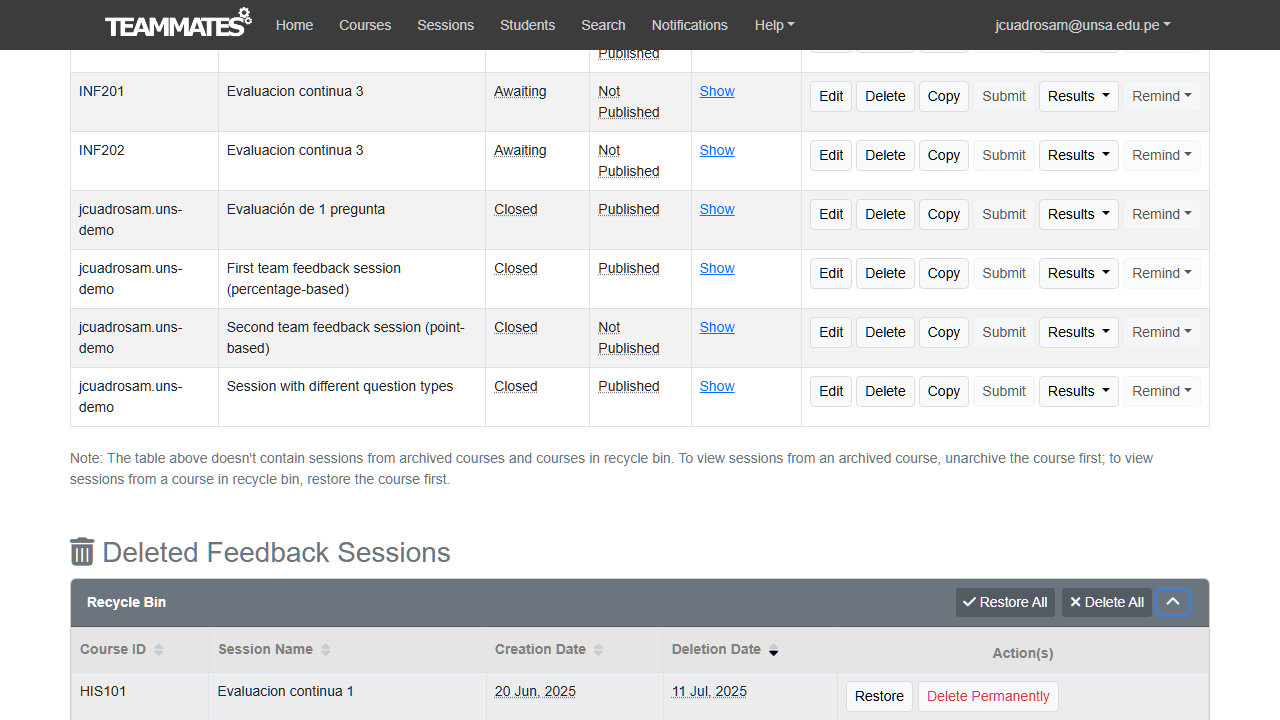
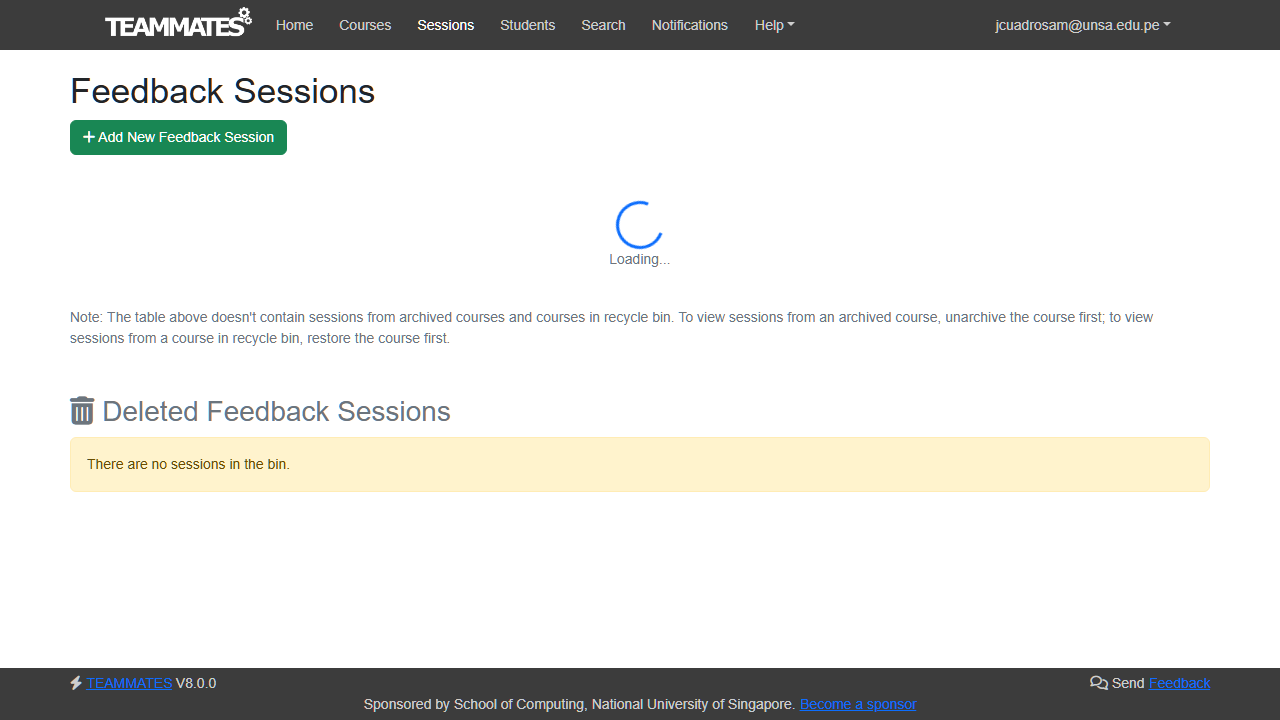
Agregando rf08.5

diff --git a/tests/gestion_retroalimentacion/rf08.5.spec.ts b/tests/gestion_retroalimentacion/rf08.5.spec.ts
@@ -1,0 +1,189 @@
+import { test, expect } from '@playwright/test';
+import { isAuthValid } from '../../scripts/checkAuth.js';
+import { CargaCompleta } from '../../utils/Carga_completa.ts';
+import { Guardar_imagen } from '../../utils/Guardar_imagen.ts';
+import { esperaTiempo } from '../../utils/esperaTiempo.ts';
+import path from 'path';
+
+const storagePath = path.resolve('auth/storageState.json');
+const urlBase = 'https://teammates-orugas.appspot.com/';
+const nombre = "rf08.5";
+const carpetaBase = path.join("capturas","gestion_retroalimentacion",nombre);
+
+
+// validar el login inicial
+test.beforeAll(() => {
+  	if (! isAuthValid(storagePath)) {
+    	throw new Error(
+      	'❌ La sesion de Google ha expirado o no existe. ' +
+      	'Ejecuta `node scripts/saveAuth.js` para regenerar auth/storageState.json'
+    	);
+  	}
+});
+
+// configurar contexto
+test.use({
+  	storageState: storagePath
+});
+
+test.only('rf08.5-01 (Eliminación exitosa de una sesión no publicada con confirmación) [Casos de Uso]', async ({ page }) => {
+    const contador = { valor: 0 };
+    const casosPrueba = "rf08.5-01";
+
+    // 1. Cargar la pagina inicial
+    await page.goto(urlBase + 'web/instructor/home'); //url inicial
+    await CargaCompleta(page); // Esperar carga 
+    await Guardar_imagen(page, carpetaBase, contador, casosPrueba); 
+    await expect(page.locator('a', { hasText: 'Sessions' })).toBeVisible(); 
+
+    // 2. Carga sessions
+    await page.click('text=Sessions'); //hacer click    
+    await esperaTiempo(1500);
+    await Guardar_imagen(page, carpetaBase, contador, casosPrueba); 
+    await page.click('.btn.btn-light.btn-sm.btn-soft-delete-0');
+
+    // 3. Resultados
+    await esperaTiempo(1500);
+    await Guardar_imagen(page, carpetaBase, contador, casosPrueba); 
+    await page.getByRole('button', { name: 'Yes' }).click();     
+
+    // 4. Respuesta 
+    await esperaTiempo(1500);
+    const mensaje = await page.locator('div.toast-body').innerText();
+    await Guardar_imagen(page, carpetaBase, contador, casosPrueba);
+    expect(mensaje).toContain('has been deleted');         
+});
+test.only('rf08.5-02 (Cancelación de eliminación por el usuario) [Casos de Uso]', async ({ page }) => {
+    const contador = { valor: 0 };
+    const casosPrueba = "rf08.5-02";
+
+    // 1. Cargar la pagina inicial
+    await page.goto(urlBase + 'web/instructor/home'); //url inicial
+    await CargaCompleta(page); // Esperar carga 
+    await Guardar_imagen(page, carpetaBase, contador, casosPrueba); 
+    await expect(page.locator('a', { hasText: 'Sessions' })).toBeVisible(); 
+
+    // 2. Carga sessions
+    await page.click('text=Sessions'); //hacer click    
+    await esperaTiempo(1500);
+    await Guardar_imagen(page, carpetaBase, contador, casosPrueba); 
+    await page.click('.btn.btn-light.btn-sm.btn-soft-delete-0');
+
+    // 3. Resultados
+    await esperaTiempo(1500);
+    await Guardar_imagen(page, carpetaBase, contador, casosPrueba); 
+    await page.getByRole('button', { name: 'No, cancel the operation' }).click(); 
+    
+    // 4. Respuesta 
+    await esperaTiempo(1500);
+    await Guardar_imagen(page, carpetaBase, contador, casosPrueba); 
+});
+test.only('rf08.5-03 (Eliminación lógica vs física según configuración) [Casos de Uso]', async ({ page }) => {
+    const contador = { valor: 0 };
+    const casosPrueba = "rf08.5-03";
+
+    // 1. Cargar la pagina inicial
+    await page.goto(urlBase + 'web/instructor/home'); //url inicial
+    await CargaCompleta(page); // Esperar carga 
+    await Guardar_imagen(page, carpetaBase, contador, casosPrueba); 
+    await expect(page.locator('a', { hasText: 'Sessions' })).toBeVisible(); 
+
+    // 2. Carga sessions
+    await page.click('text=Sessions'); //hacer click
+    const expandBtn = page.locator('#deleted-sessions-heading button.chevron');
+    await expect(expandBtn).toBeVisible();
+    await expandBtn.click();
+
+    // 3. Resultados
+    await esperaTiempo(1500);
+    await Guardar_imagen(page, carpetaBase, contador, casosPrueba);   
+    await expect(page.locator('#btn-delete-0')).toBeVisible();
+    await page.click('#btn-delete-0');
+
+    // 4. alerta
+    await esperaTiempo(1500);
+    await Guardar_imagen(page, carpetaBase, contador, casosPrueba); 
+    await page.getByRole('button', { name: 'Yes' }).click();     
+
+    // 5. Respuesta     
+    await esperaTiempo(1500);
+    await Guardar_imagen(page, carpetaBase, contador, casosPrueba);    
+});
+test.only('rf08.5-04 (Eliminación de sesión con estudiantes ya habiendo respondido) [Casos de Uso]', async ({ page }) => {
+    const contador = { valor: 0 };
+    const casosPrueba = "rf08.5-04";
+
+    // 1. Cargar la pagina inicial
+    await page.goto(urlBase + 'web/instructor/home'); //url inicial
+    await CargaCompleta(page); // Esperar carga 
+    await Guardar_imagen(page, carpetaBase, contador, casosPrueba); 
+    await expect(page.locator('a', { hasText: 'Sessions' })).toBeVisible(); 
+
+    // 2. Carga sessions
+    await page.click('text=Sessions'); //hacer click
+    const expandBtn = page.locator('#deleted-sessions-heading button.chevron');
+    await expect(expandBtn).toBeVisible();
+    await expandBtn.click();
+
+    // 3. Resultados
+    await esperaTiempo(1500);
+    await Guardar_imagen(page, carpetaBase, contador, casosPrueba); 
+    const fila = page.locator('tr', {
+        has: page.locator('a.show-response-rate-0')
+    });  
+    await fila.locator('a.show-response-rate-0').click();
+    await esperaTiempo(1500);
+    await Guardar_imagen(page, carpetaBase, contador, casosPrueba); 
+    await expect(page.locator('#btn-delete-0')).toBeVisible();
+    await page.click('#btn-delete-0');
+
+    // 4. alerta
+    await esperaTiempo(1500);
+    await Guardar_imagen(page, carpetaBase, contador, casosPrueba); 
+    await page.getByRole('button', { name: 'Yes' }).click();     
+
+    // 5. Respuesta     
+    await esperaTiempo(1500);
+    await Guardar_imagen(page, carpetaBase, contador, casosPrueba);    
+
+});
+test.only('rf08.5-05 (Eliminación fallida por sesión inexistente o ya eliminada) [Casos de Uso]', async ({ page }) => {
+    const contador = { valor: 0 };
+    const casosPrueba = "rf08.5-05";
+    const page2 = await page.context().newPage();
+
+    // 1. Cargar la pagina inicial
+    await page.goto(urlBase + 'web/instructor/home'); //url inicial
+    await page2.goto(urlBase + 'web/instructor/home'); //url inicial
+    await CargaCompleta(page); // Esperar carga 
+    await CargaCompleta(page2); // Esperar carga 
+    await Guardar_imagen(page, carpetaBase, contador, casosPrueba); 
+    await expect(page.locator('a', { hasText: 'Sessions' })).toBeVisible(); 
+    await expect(page2.locator('a', { hasText: 'Sessions' })).toBeVisible(); 
+
+    // 2. Carga sessions
+    await page.click('text=Sessions'); //hacer click    
+    await page2.click('text=Sessions'); //hacer click    
+    await esperaTiempo(1500);
+    await Guardar_imagen(page, carpetaBase, contador, casosPrueba); 
+    await page.click('.btn.btn-light.btn-sm.btn-soft-delete-0');
+    await page2.click('.btn.btn-light.btn-sm.btn-soft-delete-0');
+
+    // 3. Eliminacion
+    await esperaTiempo(1500);
+    await page.getByRole('button', { name: 'Yes' }).click();  
+    await esperaTiempo(1500);
+    const mensaje = await page.locator('div.toast-body').innerText();
+    await Guardar_imagen(page, carpetaBase, contador, casosPrueba);
+    expect(mensaje).toContain('has been deleted'); 
+
+    // 4. Eliminacion fallida 
+    await esperaTiempo(1500);
+    await page2.getByRole('button', { name: 'Yes' }).click();  
+    await esperaTiempo(1500);
+    const mensaje2 = await page2.locator('div.toast-body').innerText();
+    await Guardar_imagen(page2, carpetaBase, contador, casosPrueba);
+    expect(mensaje2).not.toContain('has been deleted');  
+
+});
+

diff --git a/tests/gestion_retroalimentacion/rf08.6.spec.ts b/tests/gestion_retroalimentacion/rf08.6.spec.ts
@@ -60,30 +60,9 @@ test.only('rf08.6-02 (Usuario sin permisos intenta acceder a sesiones eliminadas
     await Guardar_imagen(page, carpetaBase, contador, casosPrueba); 
     await expect(page.locator('a', { hasText: 'Sessions' })).toHaveCount(0);    
 });
-test.only('rf08.6-03 (Consultar detalles de una sesión eliminada) [Casos de Uso]', async ({ page }) => {
+test.only('rf08.6-03 (Acceder a la lista cuando no hay sesiones eliminadas) [Casos de Uso]', async ({ page }) => {
     const contador = { valor: 0 };
     const casosPrueba = "rf08.6-03";
-    
-    // 1. Cargar la pagina inicial
-    await page.goto(urlBase + 'web/instructor/home'); //url inicial
-    await CargaCompleta(page); // Esperar carga 
-    await Guardar_imagen(page, carpetaBase, contador, casosPrueba); 
-    await expect(page.locator('a', { hasText: 'Sessions' })).toBeVisible(); 
-
-    // 2. Carga sessions
-    await page.click('text=Sessions'); //hacer click
-    const expandBtn = page.locator('#deleted-sessions-heading button.chevron');
-    await expect(expandBtn).toBeVisible();
-    await expandBtn.click();
-
-    // 3. Resultados
-    await page.keyboard.press('End'); //Bajar hasta abajo
-    await esperaTiempo(2000);
-    await Guardar_imagen(page, carpetaBase, contador, casosPrueba);
-});
-test.only('rf08.6-04 (Acceder a la lista cuando no hay sesiones eliminadas) [Casos de Uso]', async ({ page }) => {
-    const contador = { valor: 0 };
-    const casosPrueba = "rf08.6-04";
 
     // 1. Cargar la pagina inicial
     await page.goto(urlBase + 'web/instructor/home'); //url inicial
